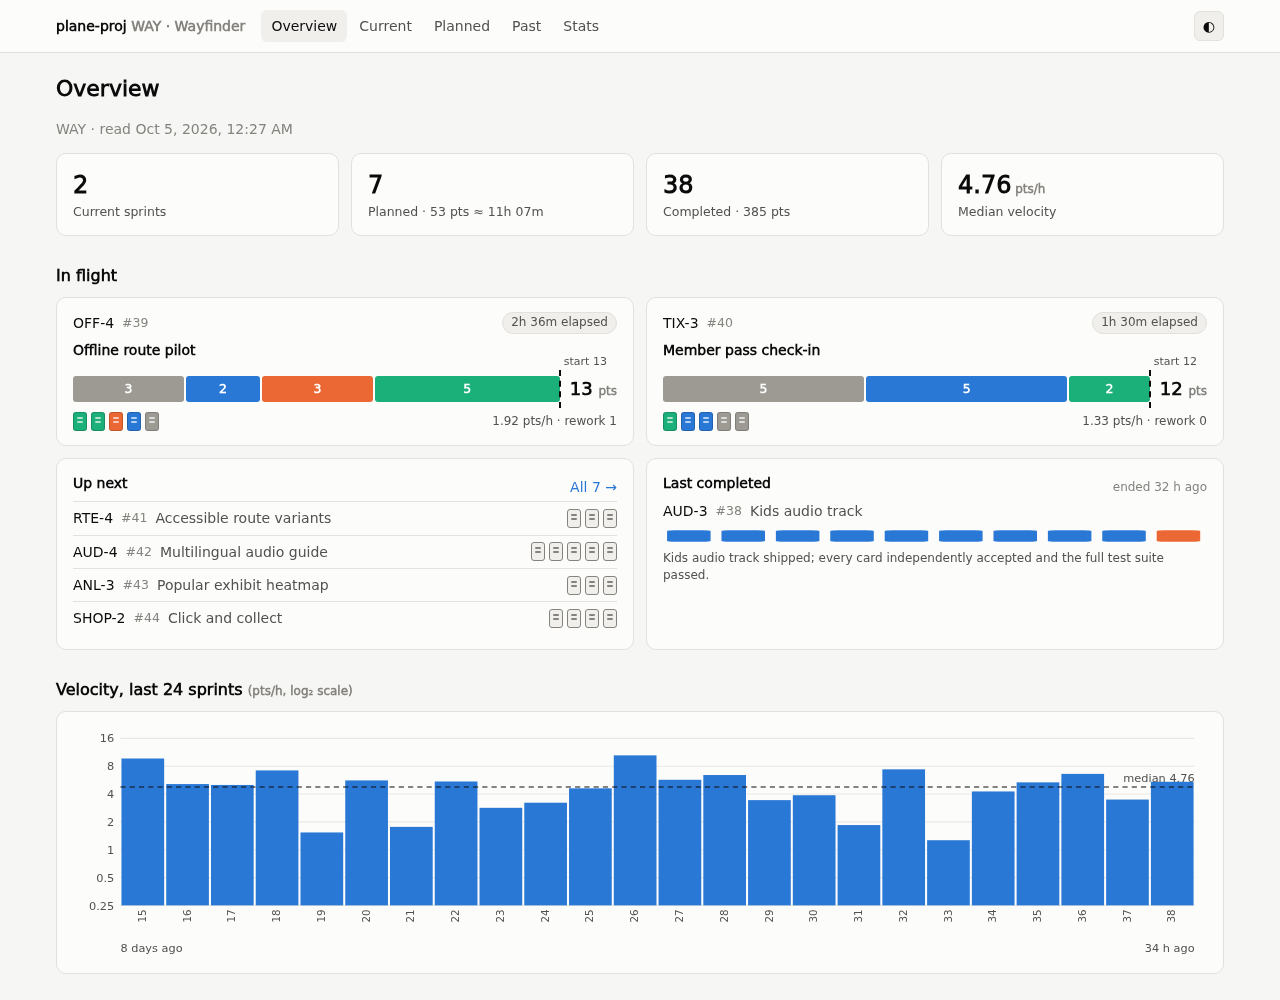
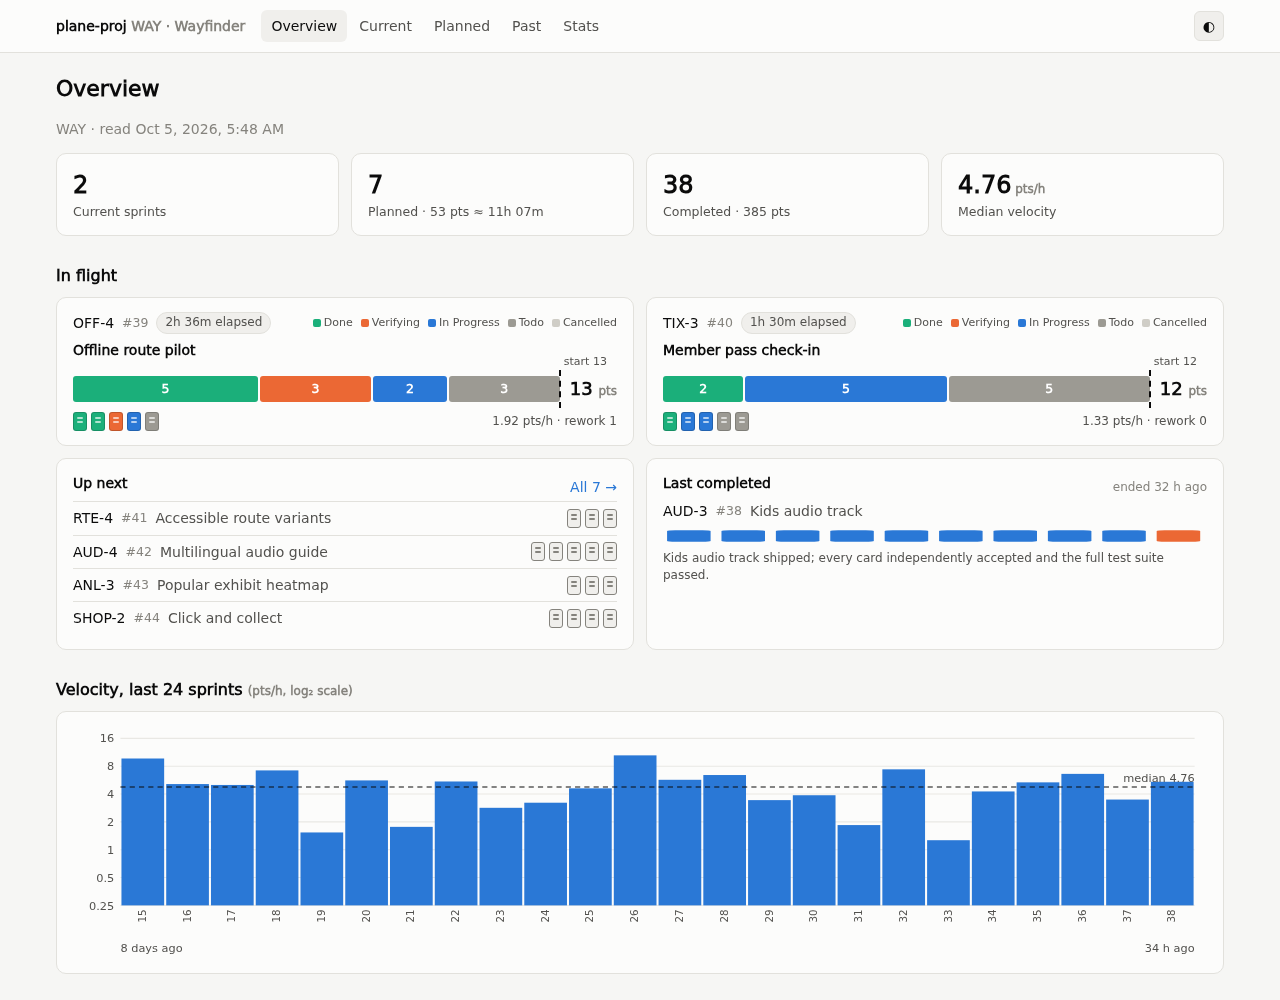
docs: refresh dashboard screenshots; compact legend in in-flight cards
The Overview in-flight cards are half the page wide, so the full-size
state legend wrapped onto its own line instead of sitting top right. Those
cards now use a compact legend (11 px text, smaller swatches) that fits
beside the sprint label and elapsed pill. Current keeps the full legend.

All six screenshots are regenerated from the invented Wayfinder demo
data to show the progress order (Done first), the static legend, the
card count caption, and the fixed-height board.

Verification: every screen rendered against the demo data without
browser errors and was inspected; pytest, ruff check, rumdl check and
nix build .#plane-proj pass. Version 0.21.10.

diff --git a/src/plane_proj/web.html b/src/plane_proj/web.html
@@ -61,6 +61,8 @@ h1 { font-size: 22px; margin: 0 0 4px; } h2 { font-size: 16px; margin: 28px 0 10
 .goal { color: var(--text-2); margin: 4px 0 0; max-width: 900px; }
 .legend { display: flex; gap: 12px; flex-wrap: wrap; font-size: 12px; color: var(--text-2); }
 .legend i { display: inline-block; width: 10px; height: 10px; border-radius: 2px; margin-right: 4px; vertical-align: -1px; }
+.legend.compact { font-size: 11px; gap: 8px; }
+.legend.compact i { width: 8px; height: 8px; margin-right: 3px; }
 .legend i.hollow { background: none !important; border: 1px dashed var(--muted); }
 table { width: 100%; border-collapse: collapse; font-variant-numeric: tabular-nums; }
 th, td { text-align: left; padding: 7px 10px; border-bottom: 1px solid var(--border); vertical-align: middle; }
@@ -248,7 +250,8 @@ function stateBar(cards, start, unit) {
     <span class="tot">${tot} <span class="muted small">${unit}</span></span></div>`;
 }
 // Every state, always: the legend needs no data, so it is the same loading or loaded.
-const stateLegend = `<div class="legend">${PROGRESS.map(st => `<span><i style="background:${stC[st]}"></i>${st}</span>`).join('')}</div>`;
+const legendOf = cls => `<div class="legend ${cls}">${PROGRESS.map(st => `<span><i style="background:${stC[st]}"></i>${st}</span>`).join('')}</div>`;
+const stateLegend = legendOf('');
 
 const niceStep = v => { const r = v / 4 || 1, e = 10 ** Math.floor(Math.log10(r)); return [1, 2, 2.5, 5, 10].map(m => m * e).find(x => x >= r); };
 // Column chart: stacked linear, or single-series log. One axis, hover per column, click opens sprint.
@@ -292,7 +295,7 @@ V.overview = () => {
     ${MEDV ? `<div class="card kpi link" onclick="location.hash='#/stats'"><div class="v">${num(MEDV, 2)}<span class="muted small"> pts/h</span></div><div class="l">Median velocity</div></div>` : ''}
   </div>
   <h2>In flight</h2><div class="grid g2">${current.map(s => { const cards = cardsFor(s);
-    return `<div class="card link" ${goto(s.sprint)}><div class="row">${label(s)}<span class="pill">${fmtH(elapsedH(s))} elapsed</span><span class="sp"></span>${stateLegend}</div>
+    return `<div class="card link" ${goto(s.sprint)}><div class="row">${label(s)}<span class="pill">${fmtH(elapsedH(s))} elapsed</span><span class="sp"></span>${legendOf('compact')}</div>
       <h3 style="margin:6px 0 16px">${esc(s.title)}</h3>${PARTIAL ? `${POINTS ? skStateBar() : ''}
       <div class="row" style="margin-top:10px">${skIcons(s.cards_start)}<span class="sp"></span>${skInline('110px')}</div>` : `${POINTS ? stateBar(cards, s.points_start, 'pts') : ''}
       <div class="row" style="margin-top:10px">${cardIcons(byProgress(cards).map(c => stC[c.state]))}<span class="sp"></span>
